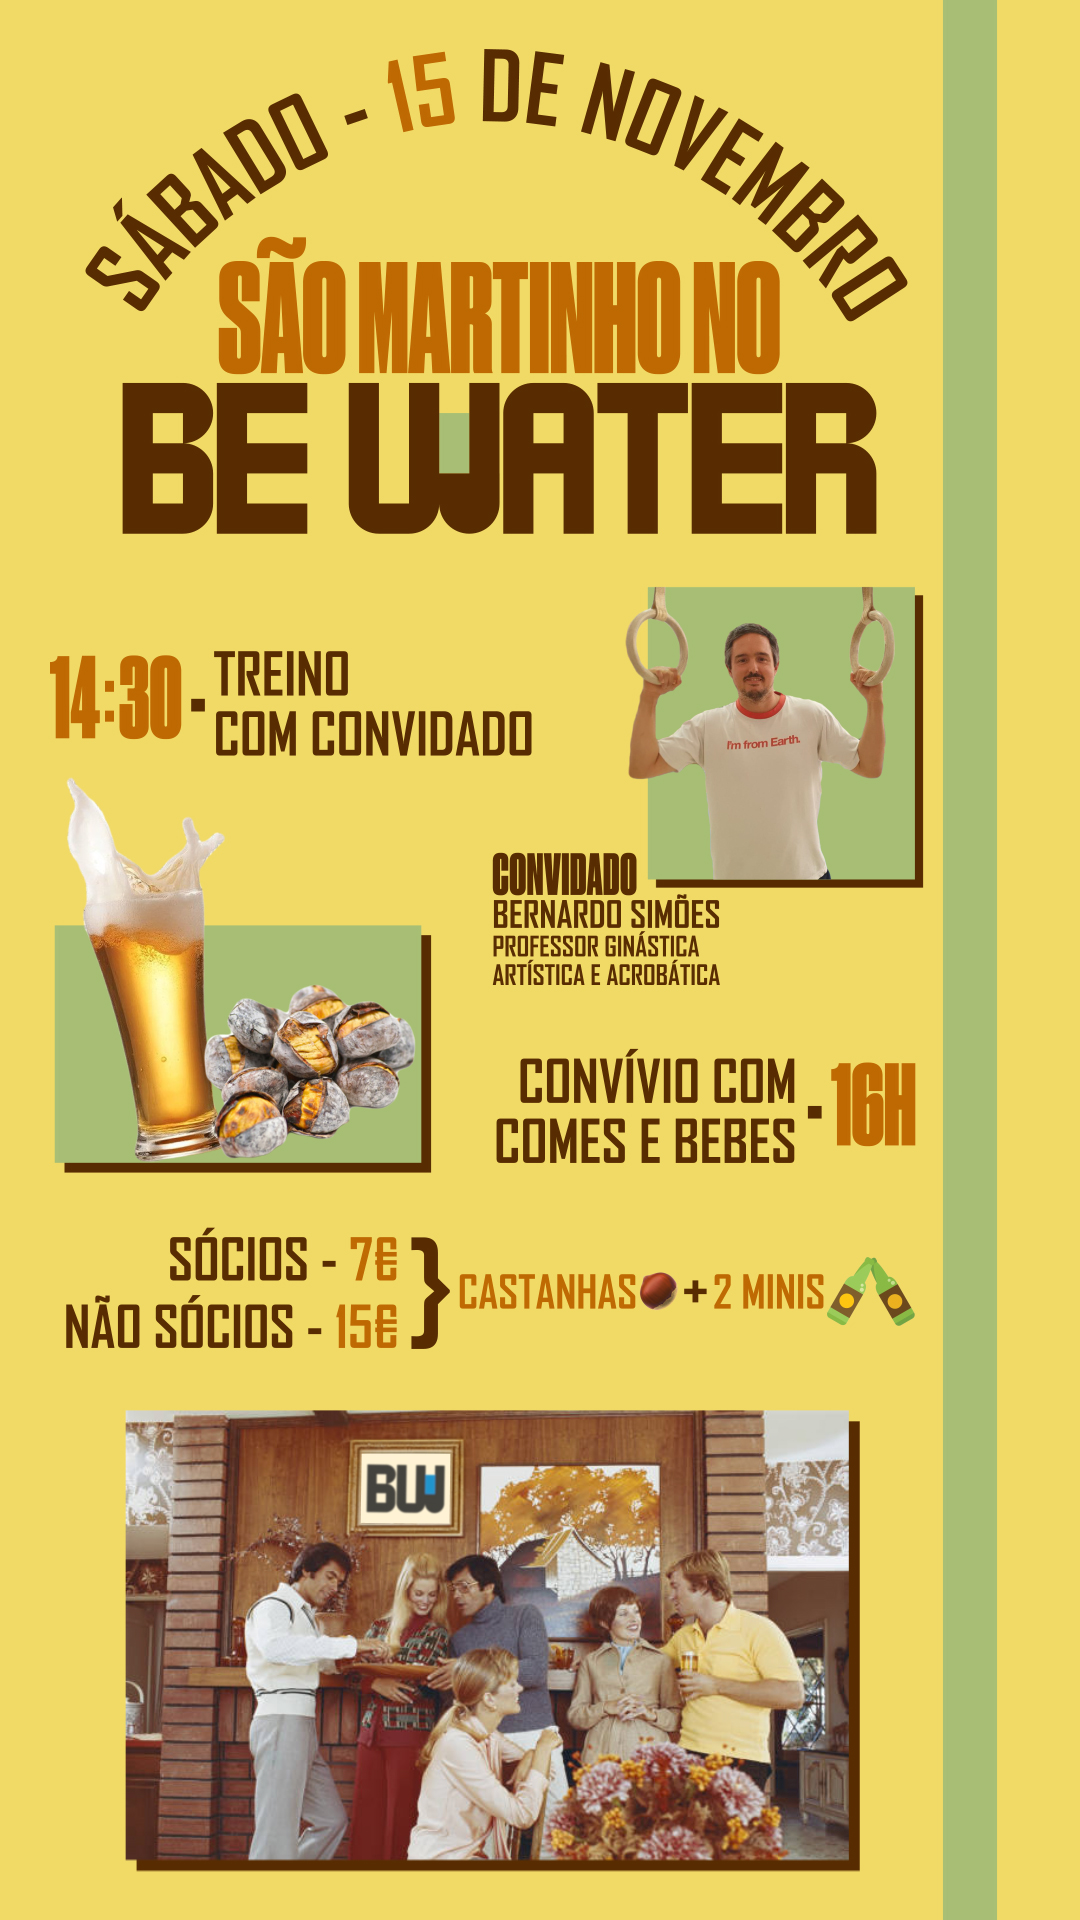
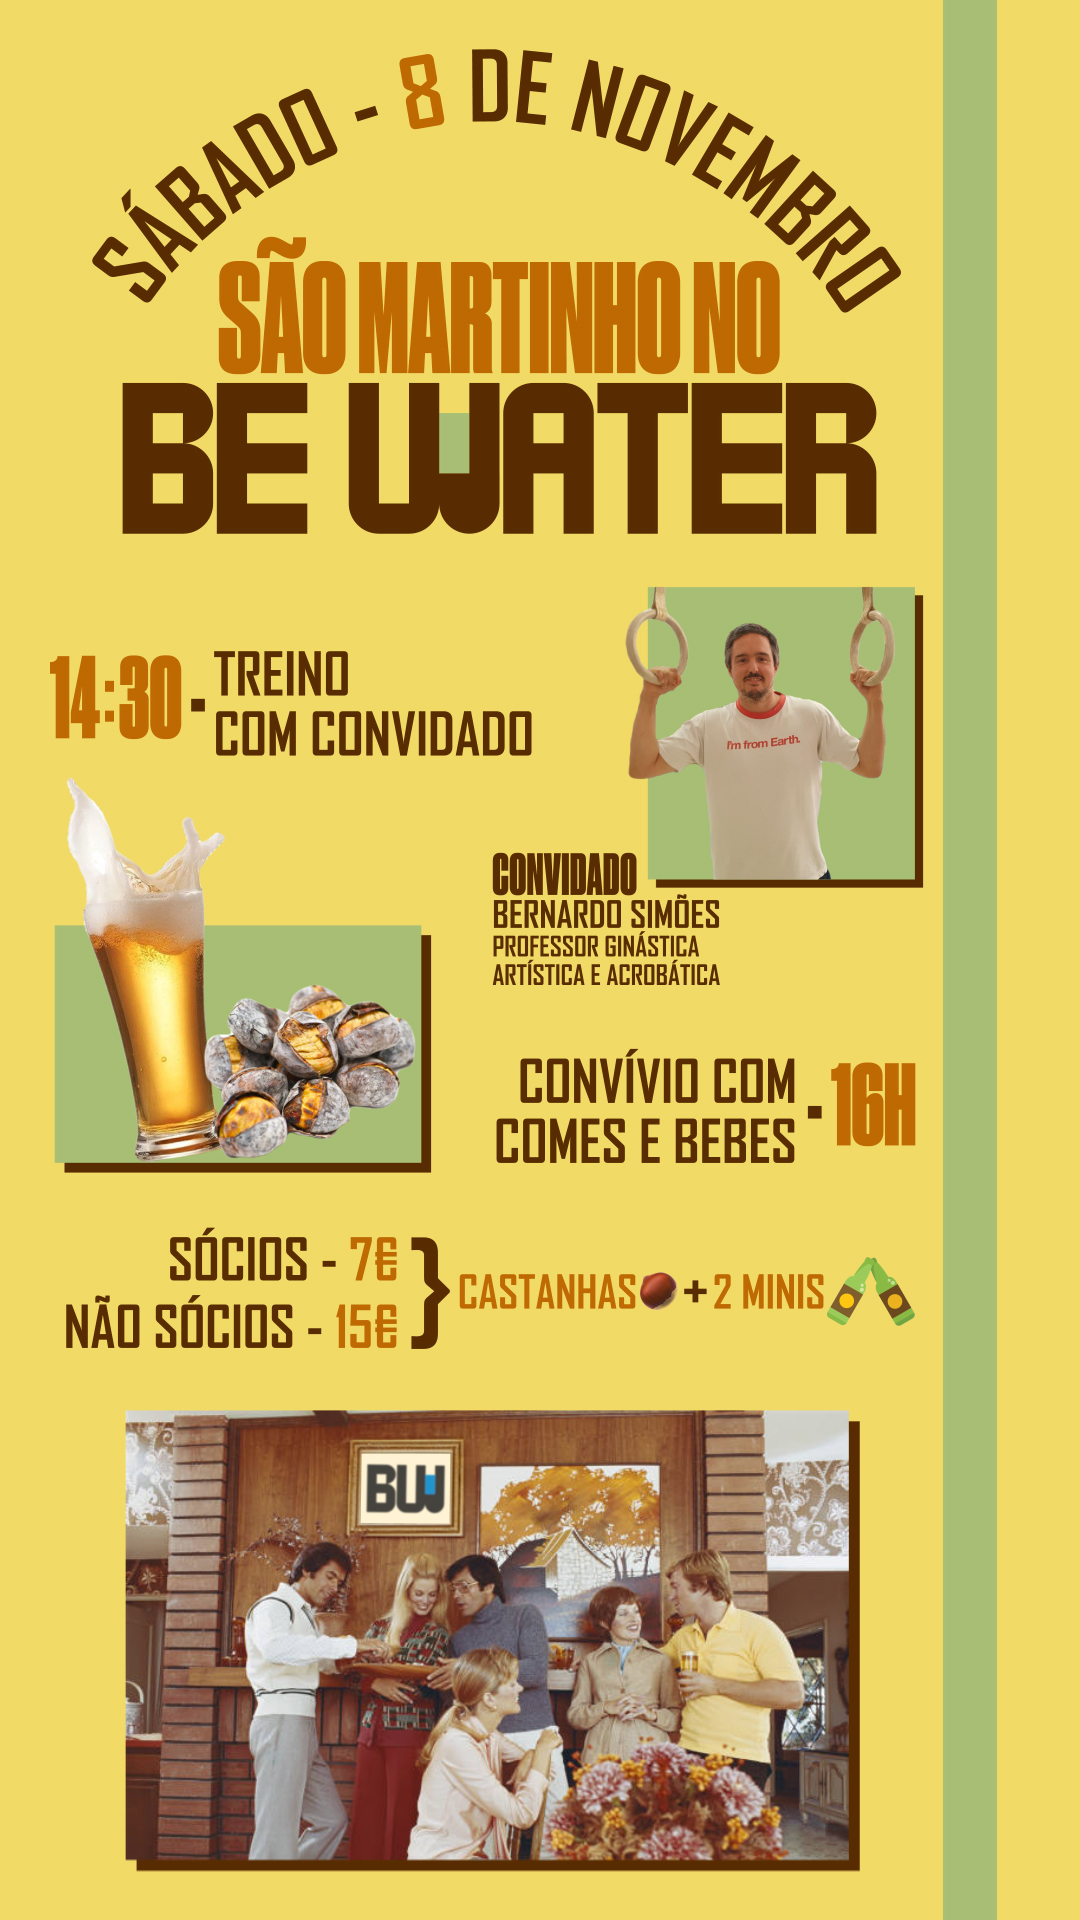
fix: update São Martinho event date and enhance event details
- Changed the event date from November 15 to November 8 in both the index.html and the dedicated event page.
- Added a new section for the special guest, Bernardo Simões, providing additional context about the event.
- Updated localized messages in Portuguese and English to reflect the new date and details.

This update ensures accurate information is presented to users and enhances the event's appeal.

Changed region(s): [[0.3361, 0.0, 0.8556, 0.1875], [0.0917, 0.0312, 0.3056, 0.1562]]

diff --git a/eventos/sao-martinho-2025-11-15/index.html b/eventos/sao-martinho-2025-11-15/index.html
@@ -3,8 +3,8 @@
 <head>
   <meta charset="UTF-8">
   <meta name="viewport" content="width=device-width, initial-scale=1.0">
-  <title>São Martinho no BE WATER | 15 Novembro</title>
-  <meta name="description" content="Inscrição no Evento de São Martinho no BE WATER: treino de ginástica com Bernardo Simões e convívio com castanhas e minis. 15 de Novembro.">
+  <title>São Martinho no BE WATER | 8 Novembro</title>
+  <meta name="description" content="Inscrição no Evento de São Martinho no BE WATER: treino de ginástica com Bernardo Simões e convívio com castanhas e minis. 8 de Novembro.">
   <link rel="icon" type="image/x-icon" href="../../src/images/favicon/favicon.ico">
   <link rel="stylesheet" href="../../src/css/styles.css">
   <link rel="stylesheet" href="https://cdnjs.cloudflare.com/ajax/libs/font-awesome/6.0.0/css/all.min.css" media="print" onload="this.media='all'">
@@ -315,7 +315,7 @@
     <div class="wrap">
       <span class="hero__eyebrow" data-i18n="evento.eyebrow">Evento Especial</span>
       <h1 class="hero__title" data-i18n="evento.title">São Martinho no BE WATER</h1>
-      <div class="event-date-banner"><span class="date-small" data-i18n="evento.date">SÁBADO, 15 NOV</span></div>
+      <div class="event-date-banner"><span class="date-small" data-i18n="evento.date">SÁBADO, 8 NOV</span></div>
       <p class="hero__subtitle" data-i18n="evento.subtitle">
         Celebra o São Martinho connosco! Treino de Ginástica com <strong>Bernardo Simões</strong>, seguido de convívio com castanhas assadas e 2 minis incluídos.
       </p>
@@ -338,12 +338,25 @@
       </div>
     </section>
 
+    <!-- Convidado Especial -->
+    <section class="section">
+      <div class="wrap card">
+        <h3 style="margin-top:0" data-i18n="evento.guest.title">Convidado Especial</h3>
+        <ul class="guest-list">
+          <li>
+            <div><strong data-i18n="evento.guest.role">Treinador de Ginástica</strong>: Bernardo Simões</div>
+          </li>
+        </ul>
+        <p style="margin-top: 1rem; color: var(--color-gray);" data-i18n="evento.guest.bio">Treinador de ginástica e ex-atleta do Lisboa Ginásio Clube, o Bernardo é o responsável pelo programa Gymnastics Foundation — um método de treino de força com o peso corporal inspirado nos movimentos e na preparação dos ginastas olímpicos.</p>
+      </div>
+    </section>
+
     <section class="section">
       <div class="wrap grid grid--2">
         <div class="card card--accent">
           <h2 style="margin-top:0" data-i18n="evento.plan.title">Plano do Evento</h2>
           <p class="notice" style="margin:0 0 1rem 0">
-            <span data-i18n="evento.plan.dateinfo">15 de novembro (sábado)</span> · <a style="text-decoration:underline; color:inherit" href="#mapa">BE WATER — Campo Grande (<span data-i18n="evento.plan.maps">ver Google Maps</span>)</a>
+            <span data-i18n="evento.plan.dateinfo">8 de novembro (sábado)</span> · <a style="text-decoration:underline; color:inherit" href="#mapa">BE WATER — Campo Grande (<span data-i18n="evento.plan.maps">ver Google Maps</span>)</a>
           </p>
           <div class="schedule-box">
           <ul class="schedule">
@@ -407,18 +420,6 @@
             </form>
           </div>
         </div>
-      </div>
-    </section>
-
-    <section class="section">
-      <div class="wrap card">
-        <h3 style="margin-top:0" data-i18n="evento.guest.title">Convidado Especial</h3>
-        <ul class="guest-list">
-          <li>
-            <div><strong data-i18n="evento.guest.role">Treinador de Ginástica</strong>: Bernardo Simões</div>
-          </li>
-        </ul>
-        <p style="margin-top: 1rem; color: var(--color-gray);" data-i18n="evento.guest.bio">Treinador de ginástica e ex-atleta do Lisboa Ginásio Clube, o Bernardo é o responsável pelo programa Gymnastics Foundation — um método de treino de força com o peso corporal inspirado nos movimentos e na preparação dos ginastas olímpicos.</p>
       </div>
     </section>
     
@@ -598,11 +599,11 @@
       pt: {
         'evento.eyebrow': 'Evento Especial',
         'evento.title': 'São Martinho no BE WATER',
-        'evento.date': 'SÁBADO, 15 NOV',
+        'evento.date': 'SÁBADO, 8 NOV',
         'evento.subtitle': 'Celebra o São Martinho connosco! Treino de Ginástica com <strong>Bernardo Simões</strong>, seguido de convívio com castanhas assadas e 2 minis incluídos.',
         'evento.cta': 'Inscrever Agora',
         'evento.plan.title': 'Plano do Evento',
-        'evento.plan.dateinfo': '15 de novembro (sábado)',
+        'evento.plan.dateinfo': '8 de novembro (sábado)',
         'evento.plan.maps': 'ver Google Maps',
         'evento.plan.schedule1': 'Treino de Ginástica com <strong>Bernardo Simões</strong>',
         'evento.plan.schedule2': 'Convívio com castanhas assadas e 2 minis',
@@ -643,11 +644,11 @@
       en: {
         'evento.eyebrow': 'Special Event',
         'evento.title': 'São Martinho at BE WATER',
-        'evento.date': 'SATURDAY, NOV 15',
+        'evento.date': 'SATURDAY, NOV 8',
         'evento.subtitle': 'Celebrate São Martinho with us! Gymnastics training with <strong>Bernardo Simões</strong>, followed by gathering with roasted chestnuts and 2 drinks included.',
         'evento.cta': 'Register Now',
         'evento.plan.title': 'Event Schedule',
-        'evento.plan.dateinfo': 'November 15 (Saturday)',
+        'evento.plan.dateinfo': 'November 8 (Saturday)',
         'evento.plan.maps': 'view Google Maps',
         'evento.plan.schedule1': 'Gymnastics Training with <strong>Bernardo Simões</strong>',
         'evento.plan.schedule2': 'Gathering with roasted chestnuts and 2 drinks',

diff --git a/index.html b/index.html
@@ -1488,18 +1488,16 @@
         <h2 class="section-title" data-i18n="events.title">EVENTOS</h2>
         <div class="section-line"></div>
       </div>
-<!--
+
       <h3 data-i18n="events.upcoming">Próximos</h3>
-    -->
-            
-      <!-- Active Event Card - LANÇAMENTO AMANHÃ -->
-      <!-- 
+      
+      <!-- Active Event Card -->
       <div class="grid">
         <article class="card">
           <img src="src/images/general/sao-martinho-evento.jpg" alt="São Martinho no BE WATER">
           <div class="card-body">
             <div class="meta">
-              <span class="date">Sáb, 15 Nov 2025</span>
+              <span class="date">Sáb, 8 Nov 2025</span>
               <span class="badge badge-live" data-i18n="events.badge.open">Inscrições Abertas</span>
             </div>
             <h4 data-i18n="events.saomartinho.title">São Martinho no BE WATER</h4>
@@ -1508,7 +1506,6 @@
           </div>
         </article>
       </div>
-      -->
 
       <h3 data-i18n="events.past">Passados</h3>
       <div class="grid">
